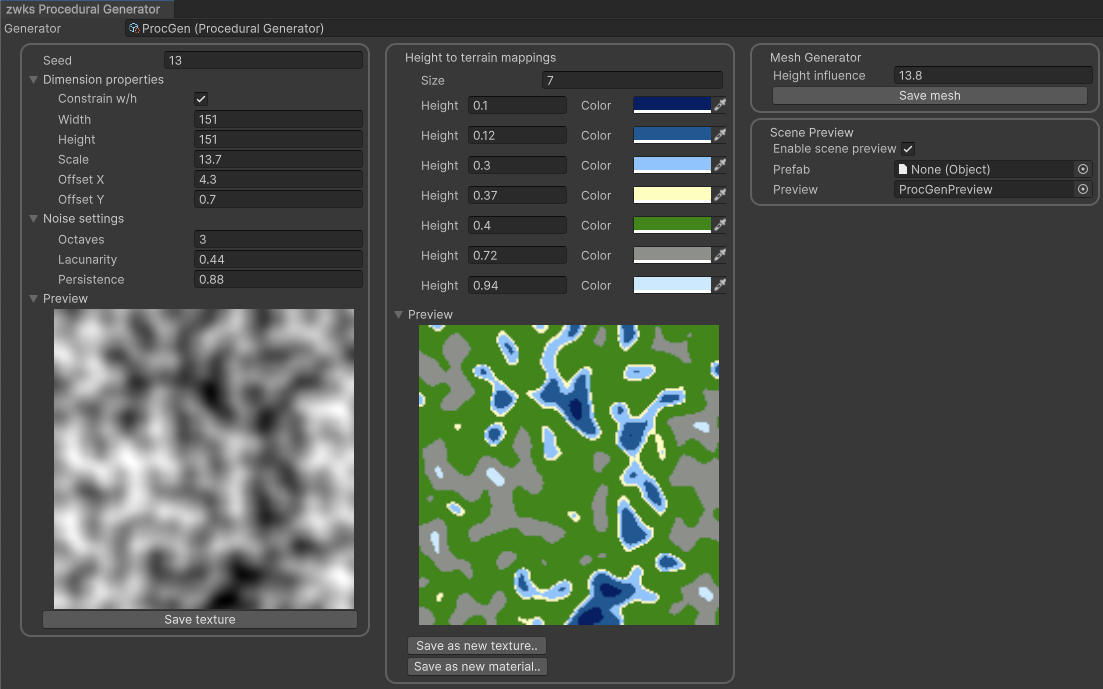
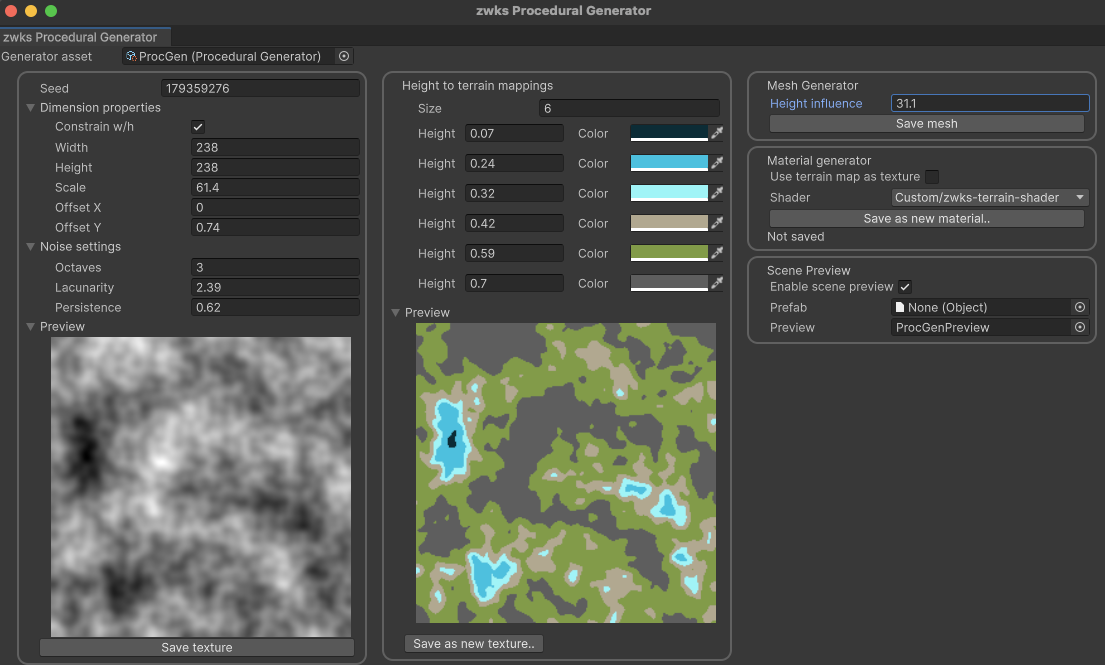
Updated documentation and pictures

diff --git a/README.md b/README.md
@@ -22,12 +22,13 @@ Start by setting noise parameters as desired - here's a great start:
 ![Noise settings](/noise-settings.png)  
 
 ### Terrain map
-You'll note the terrain map does not show anything - first you'll need to create the mapping between noise map values and colors. Simply change the 'Size' number to the number of levels you want and start defining!  
+You'll note the terrain map does not show anything - first you'll need to create the mapping between noise map values and colors. Simply change the 'Size' number to the number of levels you want and start defining!   
 
-**NOTE: Color entries have 0 alpha by default! Change to full alpha or you won't see anything in the preview :)**    
+Note that the height value in the last entry is not used. The colors are the layers, and the height values the thresholds between them. The first color entry starts at height 0, and ends at the first height threshold. The last color will start at the second-to-last height entry, and be applied to everything above.
+
+**NOTE: Color entries have 0 alpha by default! Change the alpha or you won't see anything in the preview :)**    
 
 ![Terrain settings](/terrain-map.png)
-
 
 ### Mesh generation
 The height map will need a multiplier to generate any visible difference in height. Set 'Height influence' to around 20 as a start.
@@ -35,3 +36,7 @@ The height map will need a multiplier to generate any visible difference in heig
 ### In-scene preview
 Enable the checkbox named 'Enable scene preview' and a new object will be created in the open scene. It will have a custom marker MonoBehaviour added for identification, call "ProcGenPreviewObject". This object can be safely deleted whenever you wish - but disable the preview checkbox first, or it will be recreated.  
 ![Scene preview 2](/scene-preview-2.png)
+
+## Changelog 
+ - 2024-04-21: First commit
+ - 2024-04-27: Added material generator and custom terrain shader. Using the terrain map as texture does not work for now.
